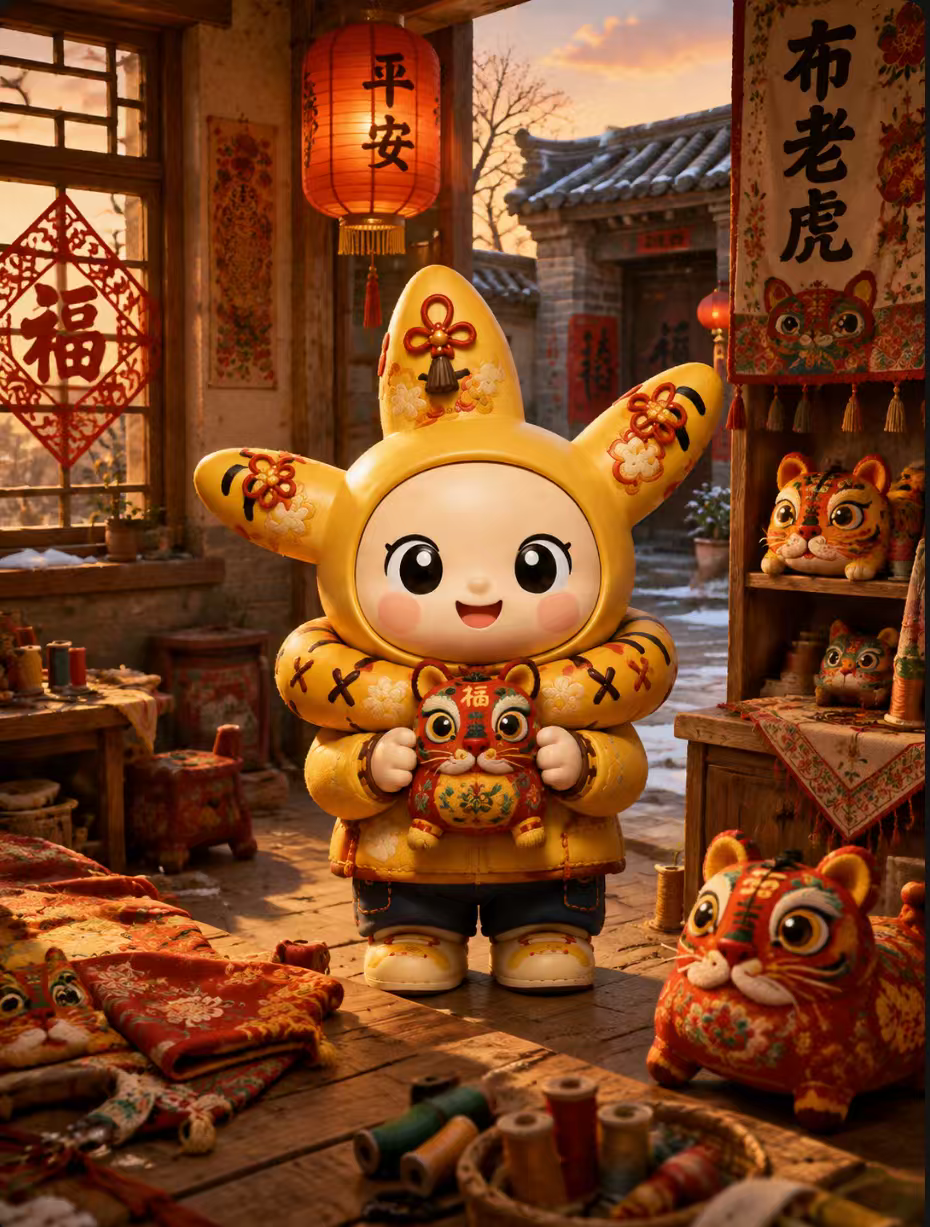
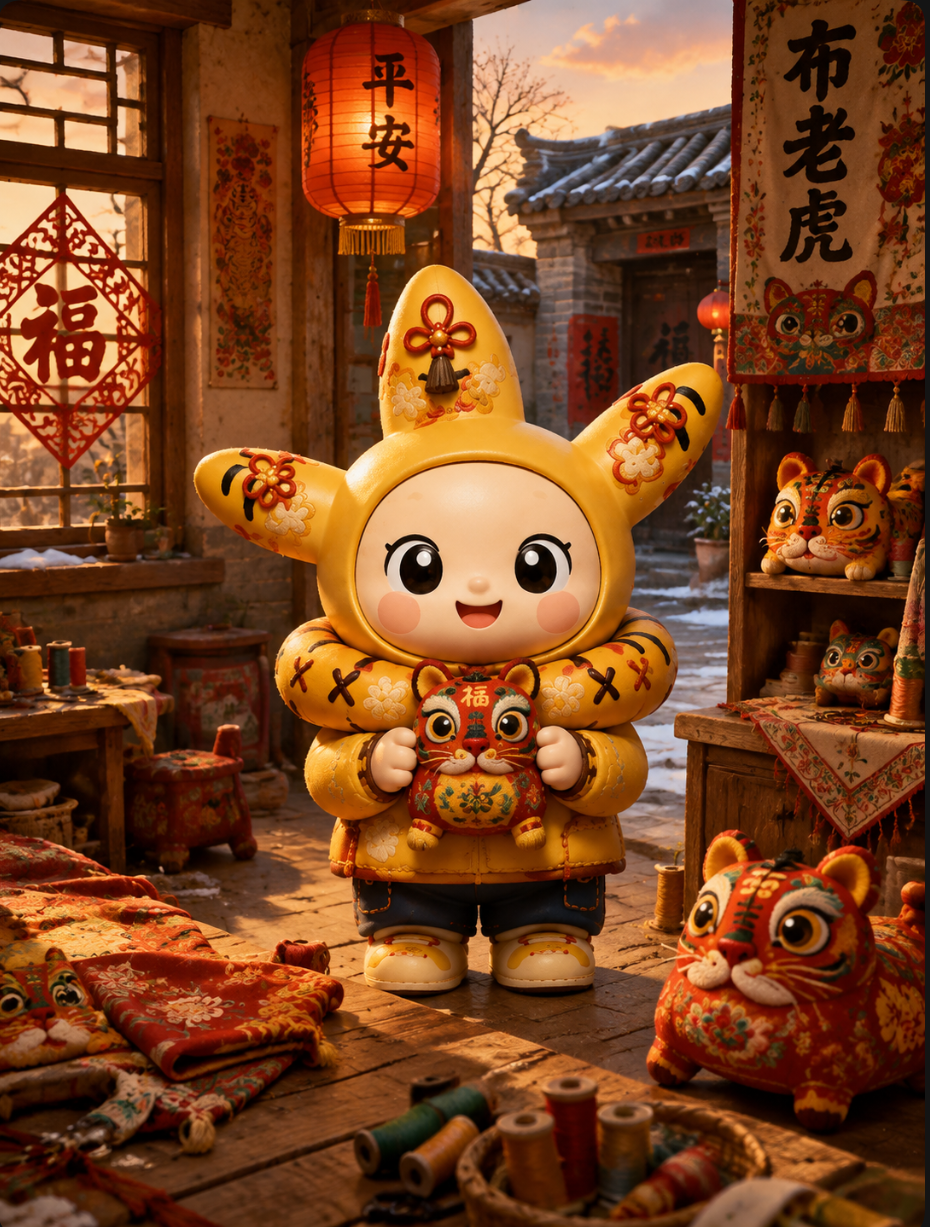
Update Licheng cloth tiger scene and finalize approved photo button proportions

Changed region(s): [[0.8419, 0.4026, 0.8731, 0.4336], [0.4989, 0.5884, 0.5301, 0.6194], [0.2495, 0.3716, 0.2806, 0.4026]]

diff --git a/map/index.html b/map/index.html
@@ -340,7 +340,7 @@
     const products = [
       {name:"狮舞巡游",englishName:"Lion Dance Parade",province:"广东省",location:"广东 · 佛山",englishLocation:"Foshan, Guangdong, China",heritage:"广东醒狮",coord:[113.1214,23.0215],marker:"./markers/xingshi.png",storyCn:"把岭南醒狮的热烈与勇气装进一场巡游，让传统醒狮从民俗现场走进当代生活。",storyEn:"A spirited parade carries the courage of Lingnan lion dance from folk celebrations into contemporary life."},
       {name:"京腔雅览",englishName:"Peking Opera Gallery",province:"北京市",location:"北京",englishLocation:"Beijing, China",heritage:"京剧",coord:[116.4074,39.9042],marker:"./markers/jingju.png",storyCn:"从脸谱、戏服、唱腔与身段出发，在方寸之间收藏东方舞台的神采。",storyEn:"Masks, costumes, melodies and gestures preserve the brilliance of the Chinese stage in a compact cultural portrait."},
-      {name:"虎韵寻珍",englishName:"Tiger Charm Treasures",province:"山西省",location:"山西 · 黎城",englishLocation:"Licheng, Shanxi, China",heritage:"黎侯虎",coord:[113.387,36.503],marker:"./markers/bulaohu.png",storyCn:"憨态里藏着虎威，针线中缝入祝福，让传统布艺成为陪伴日常的幸运符号。",storyEn:"Stitched with blessings, the endearing cloth tiger turns ancient strength into a lucky companion for everyday life."},
+      {name:"虎韵寻珍",englishName:"Tiger Charm Treasures",province:"山西省",location:"山西 · 黎城",englishLocation:"Licheng, Shanxi, China",heritage:"黎城布老虎（黎侯虎）",coord:[113.387,36.503],marker:"./markers/bulaohu.png",storyCn:"憨态里藏着虎威，针线中缝入祝福，让传统布艺成为陪伴日常的幸运符号。",storyEn:"Stitched with blessings, the endearing cloth tiger turns ancient strength into a lucky companion for everyday life."},
       {name:"瓷艺观古",englishName:"Porcelain Through Time",province:"江西省",location:"江西 · 景德镇",englishLocation:"Jingdezhen, Jiangxi, China",heritage:"景德镇手工制瓷技艺",coord:[116.78,28.93],marker:"./markers/jingdezhen.png",storyCn:"沿着拉坯、修坯、绘饰、施釉与烧制的过程，触摸泥与火共同书写的瓷都记忆。",storyEn:"Shaping, trimming, painting, glazing and firing reveal the memory of a porcelain capital written together by clay and flame."},
       {name:"灯影寻踪",englishName:"Tracing Shadows",province:"陕西省",location:"陕西 · 华州",englishLocation:"Huazhou, Shaanxi, China",heritage:"华县皮影戏",coord:[109.7758,34.497],marker:"./markers/piyingxi.png",storyCn:"一盏灯、一方幕，让雕刻精巧的影人在光影之间重新讲述古老故事。",storyEn:"Behind a simple screen, finely carved figures return ancient tales to life through light, shadow and song."},
       {name:"青釉观承",englishName:"Azure Glaze Legacy",province:"江西省",location:"江西 · 景德镇",englishLocation:"Jingdezhen, Jiangxi, China",heritage:"景德镇青花瓷制作技艺",coord:[117.62,29.72],marker:"./markers/qinghuaci.png",storyCn:"以青白色彩和传统纹样为灵感，让清雅的东方瓷韵进入当代生活。",storyEn:"Blue-and-white tones and traditional motifs bring the quiet elegance of Chinese porcelain into contemporary life."},
@@ -351,7 +351,7 @@
     const detailScenes = {
       "./markers/xingshi.png": "./scenes/xingshi.png",
       "./markers/jingju.png": "./scenes/jingju.png",
-      "./markers/bulaohu.png": "./scenes/bulaohu.png",
+      "./markers/bulaohu.png": "./scenes/bulaohu.png?v=licheng-2",
       "./markers/jingdezhen.png": "./scenes/porcelain.png",
       "./markers/qinghuaci.png": "./scenes/porcelain.png",
       "./markers/piyingxi.png": "./scenes/piyingxi.png",

diff --git a/styles.css b/styles.css
@@ -2058,7 +2058,7 @@ button { font: inherit; color: inherit; }
 }
 .scene-result.is-showcase .result-actions button {
   min-height: clamp(46px, 5vw, 72px);
-  font-size: clamp(12px, 1.05vw, 18px);
+  font-size: clamp(14px, 1.25vw, 20px);
 }
 .scene-result.is-showcase .result-actions .secondary-button {
   min-width: clamp(110px, 10vw, 170px);
@@ -2066,14 +2066,14 @@ button { font: inherit; color: inherit; }
 }
 .scene-result.is-showcase .result-actions .primary-button {
   min-width: 0;
-  gap: 8px;
-  padding: 6px 6px 6px 18px;
+  gap: 10px;
+  padding: 7px 8px 7px 20px;
 }
 .scene-result.is-showcase .result-actions .primary-button i {
-  width: clamp(36px, 3.5vw, 48px);
-  height: clamp(36px, 3.5vw, 48px);
+  width: clamp(32px, 3.125vw, 44px);
+  height: clamp(32px, 3.125vw, 44px);
   flex: 0 0 auto;
-  font-size: clamp(22px, 1.9vw, 30px);
+  font-size: clamp(18px, 1.55vw, 24px);
   line-height: 1;
   letter-spacing: 0;
 }

diff --git a/index.html b/index.html
@@ -5,7 +5,7 @@
   <meta name="viewport" content="width=device-width, initial-scale=1.0" />
   <meta name="theme-color" content="#0b0a10" />
   <title>MOMO 默默 · 非遗漫游</title>
-  <link rel="stylesheet" href="./styles.css?v=momo-photo-compact-18" />
+  <link rel="stylesheet" href="./styles.css?v=momo-photo-balanced-19" />
   <link rel="modulepreload" href="./assets/model-viewer.min.js" />
   <link rel="preload" href="./assets/momo-blind-box-v1.glb?v=lid-open-1" as="fetch" crossorigin />
 </head>
@@ -174,7 +174,7 @@
       <section class="scene scene-map" data-scene="map" aria-label="非遗文化数字地图展览">
         <iframe
           class="map-frame"
-          src="./map/index.html?v=map-controls-3"
+          src="./map/index.html?v=map-licheng-tiger-4"
           title="非遗文化数字地图"
           loading="lazy"
           allow="fullscreen"
